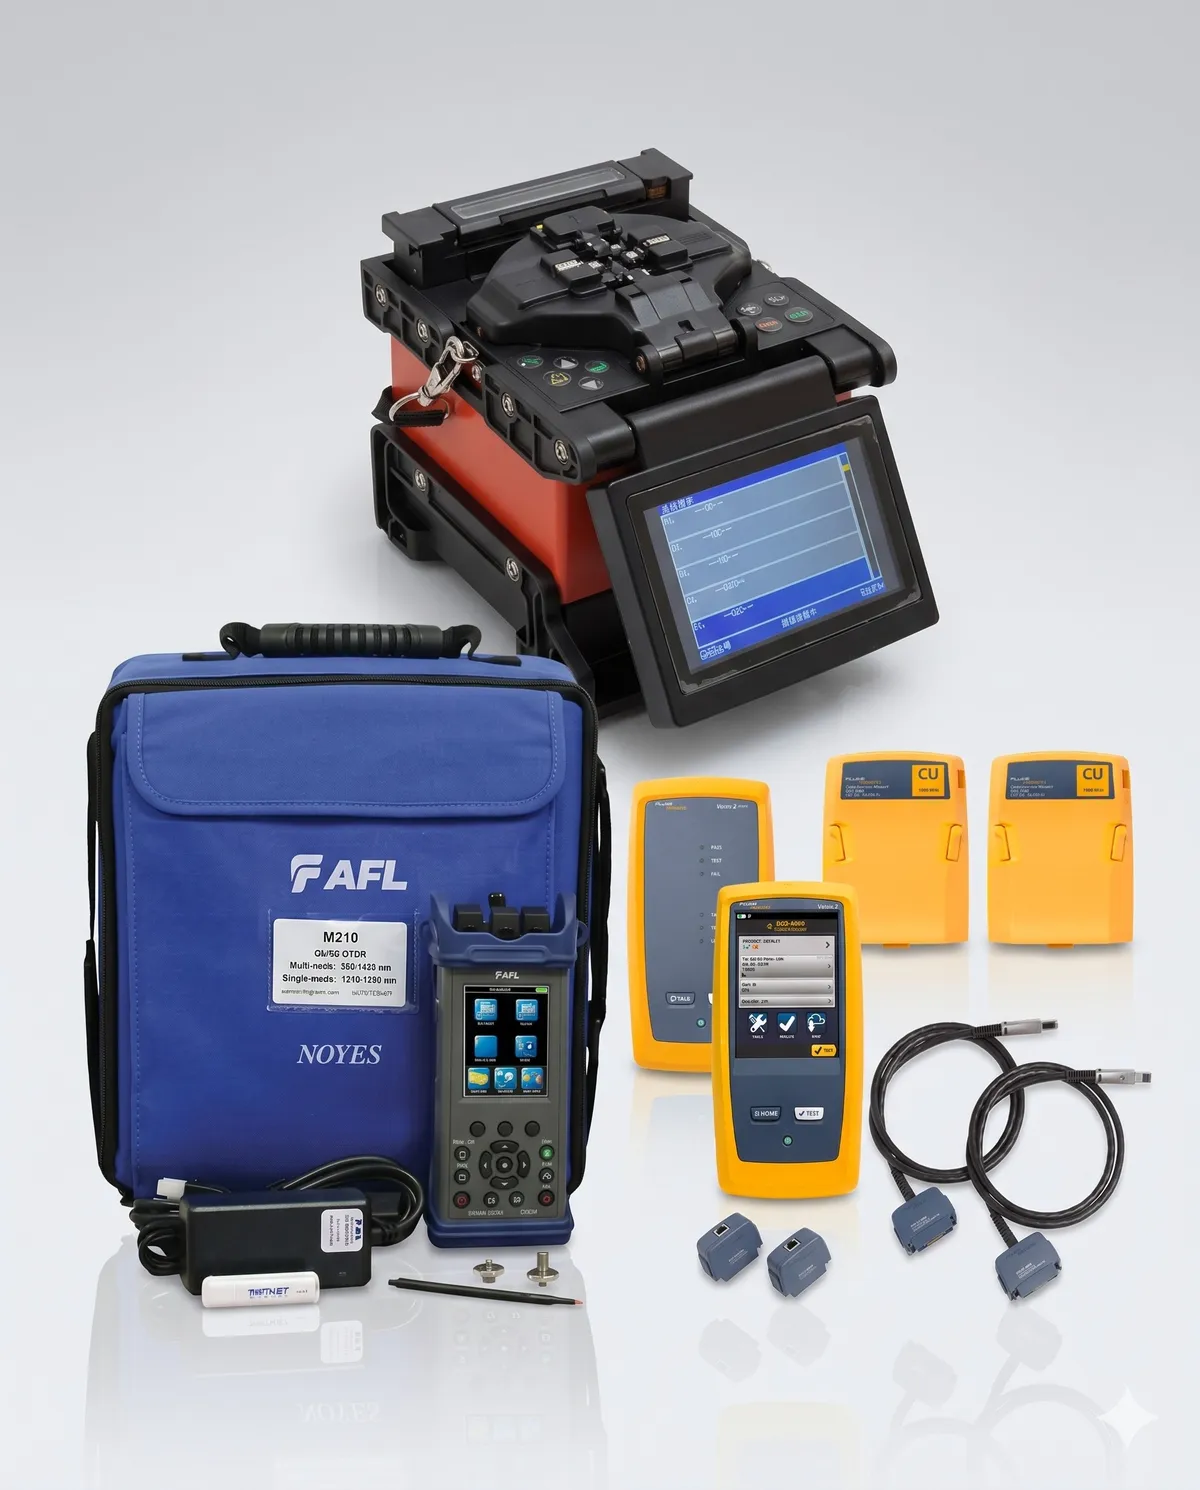
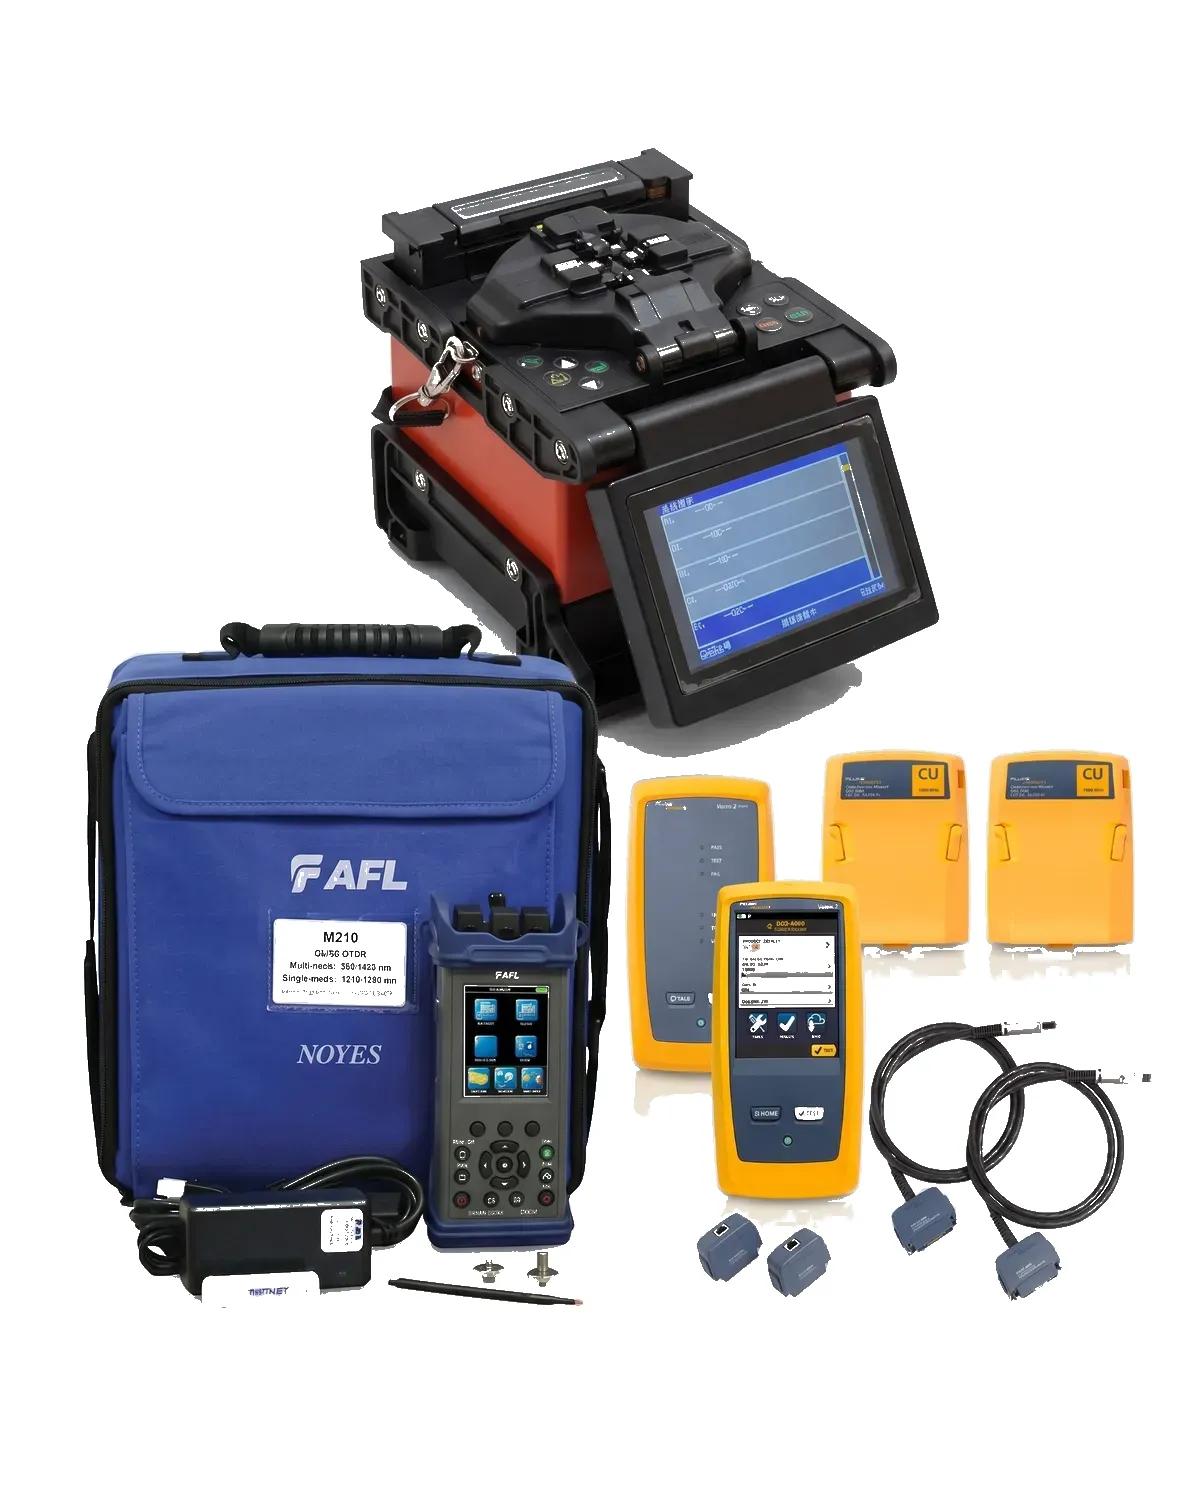
Equipment images: whiten Testing bg to white; revert homepage IT-Equipment cards to fill (cover); /rental category cards full-image on white

diff --git a/app/page.js b/app/page.js
@@ -703,12 +703,12 @@ function RentalTeaser() {
               style={{ transitionDelay: `${i * 80}ms`, background: '#FFFFFF', boxShadow: '0 8px 32px rgba(10,26,70,0.18)' }}
             >
               {/* Image */}
-              <div className="relative flex items-center justify-center p-4" style={{ aspectRatio: '4/3', background: '#F4F6FA' }}>
+              <div className="relative" style={{ aspectRatio: '4/3' }}>
                 <img
                   src={it.img}
                   alt={`${it.name} rental UAE, IP Care Technologies`}
                   loading="lazy"
-                  className="w-full h-full object-contain transition-transform duration-700 ease-out group-hover:scale-110"
+                  className="absolute inset-0 w-full h-full object-cover transition-transform duration-700 ease-out group-hover:scale-110"
                 />
 
                 {/* Orange icon badge — top left */}

diff --git a/app/rental/RentalHubClient.jsx b/app/rental/RentalHubClient.jsx
@@ -145,7 +145,7 @@ export default function RentalHubClient() {
                 style={{ transitionDelay: `${i * 40}ms` }}
               >
                 {/* Photo — edge-to-edge, zooms on hover */}
-                <div className="w-full overflow-hidden flex items-center justify-center p-4" style={{ aspectRatio: '16/10', background: '#F4F6FA' }}>
+                <div className="w-full overflow-hidden flex items-center justify-center p-4" style={{ aspectRatio: '16/10', background: '#FFFFFF' }}>
                   <img
                     src={(() => {
                       const photo = CATEGORY_PHOTOS[slug] || 'https://images.unsplash.com/photo-1544197150-b99a580bb7a8'